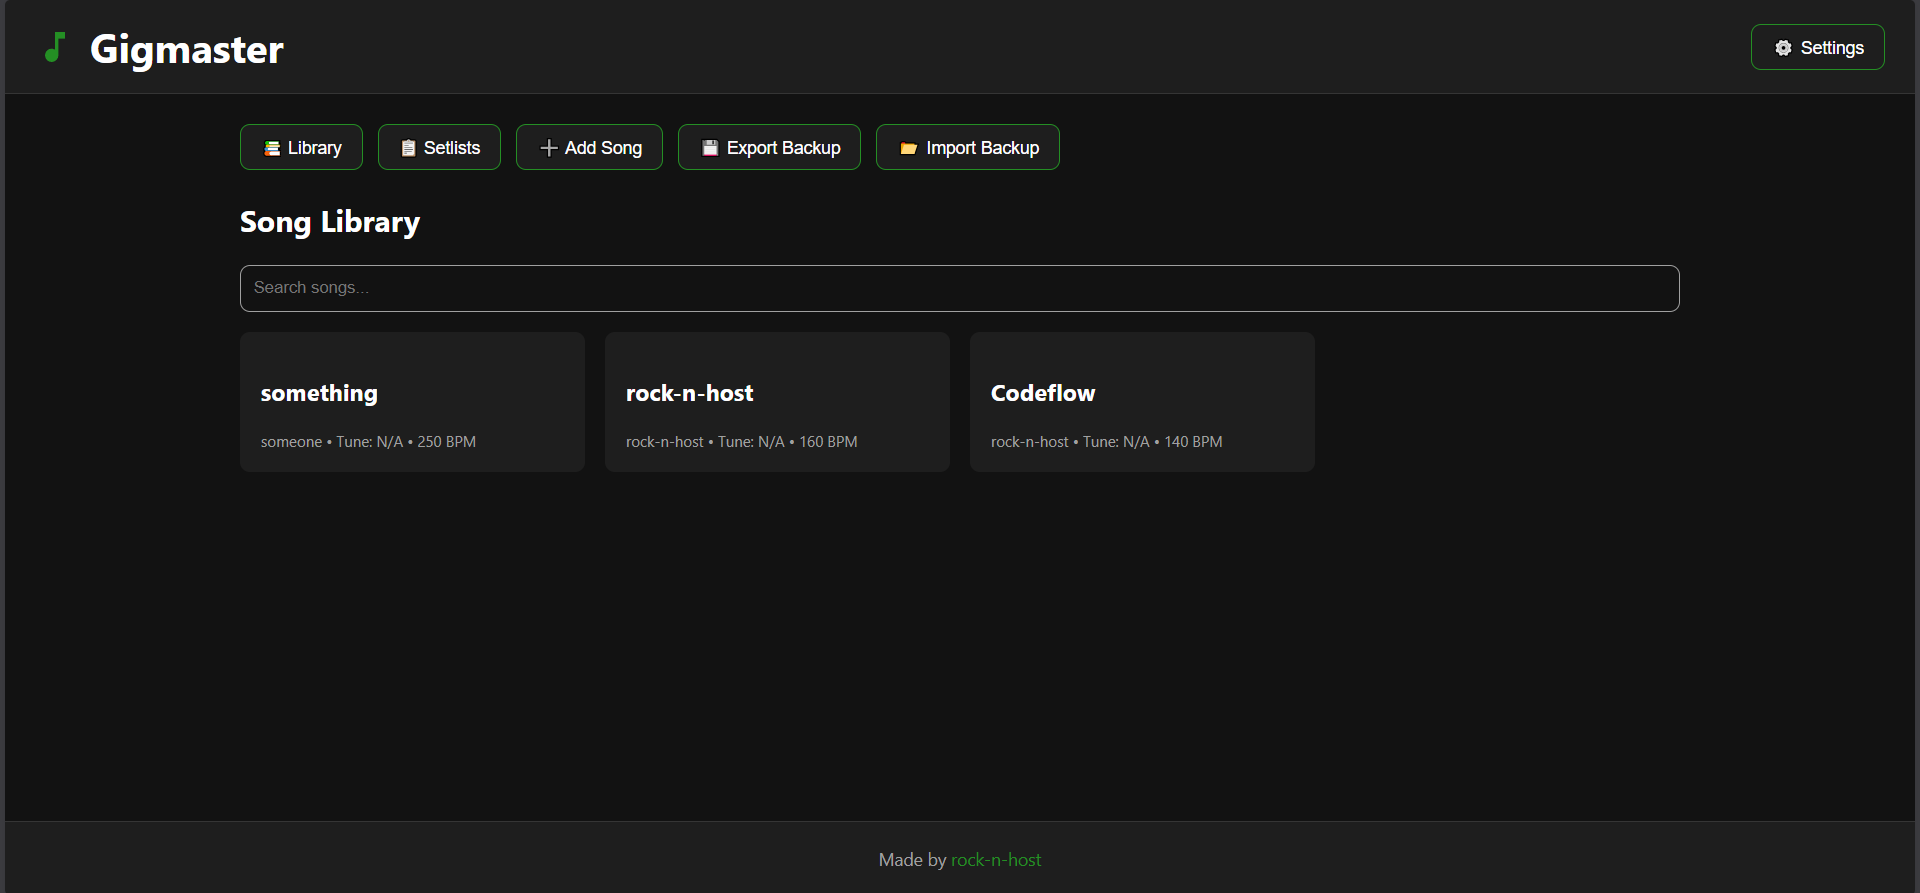
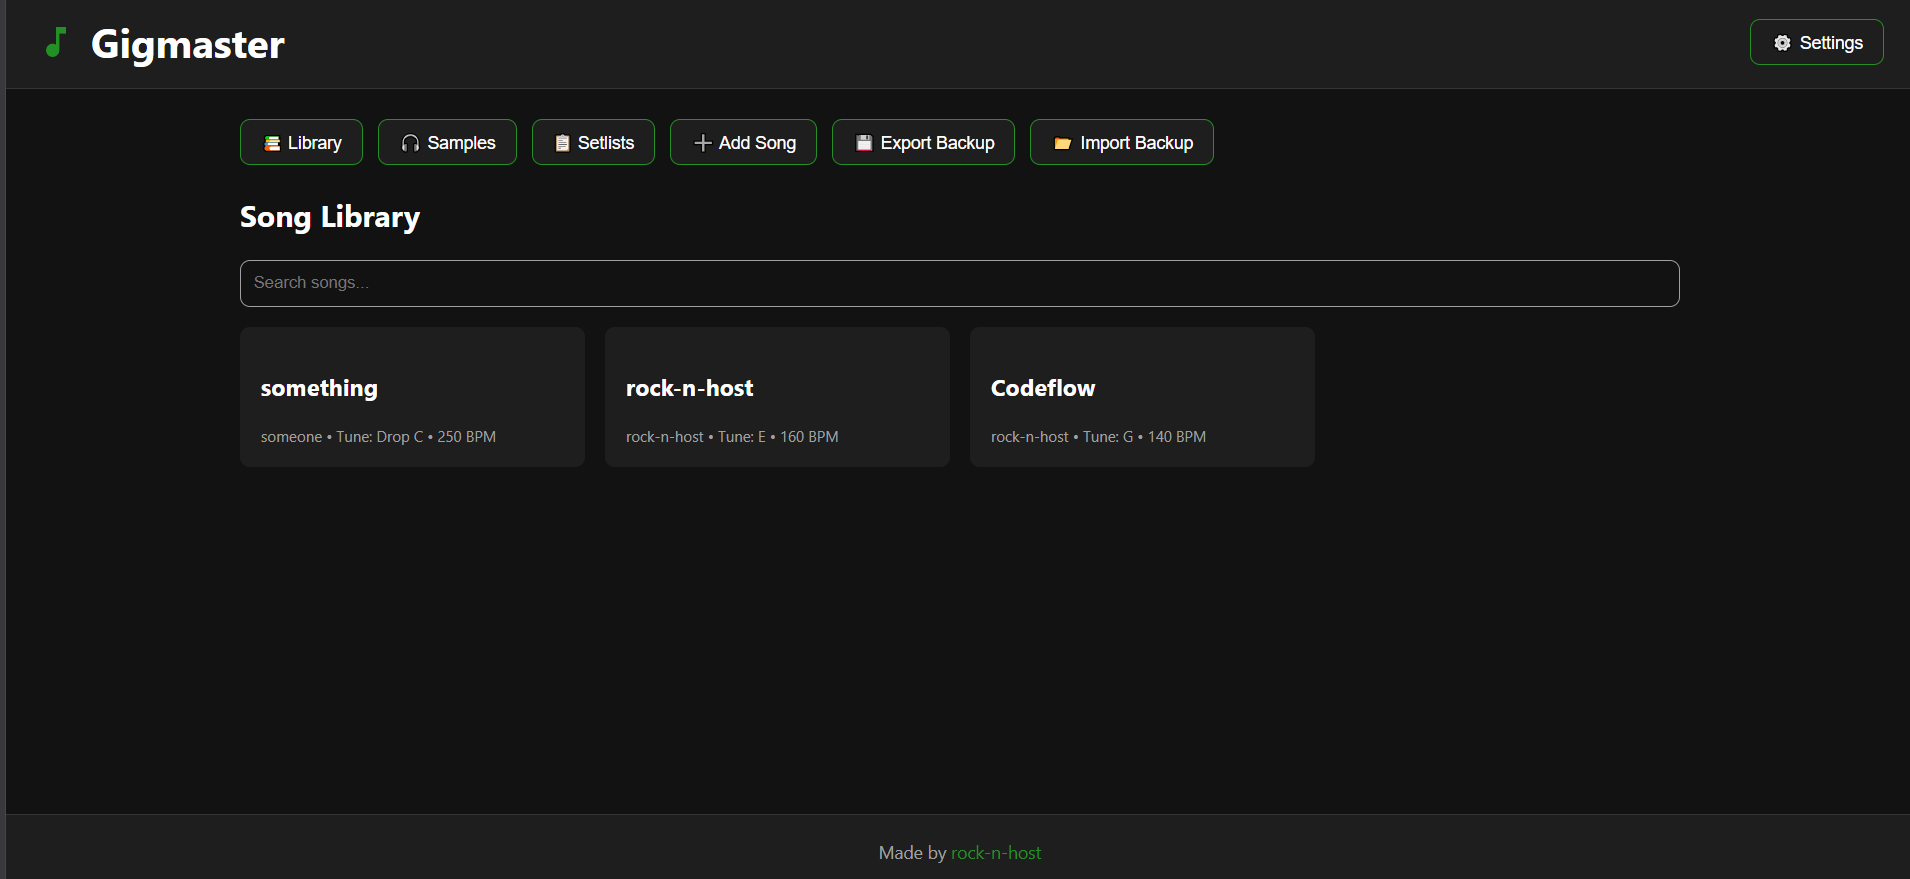
update README

diff --git a/README.md b/README.md
@@ -3,21 +3,21 @@
   <h1>Gigmaster</h1>
   <p><strong>A simple, self-hosted lyrics library without dependenvies.</strong></p>
 
-  ![Version](https://img.shields.io/badge/version-2026.05.02-blue?style=flat-square)
+  ![Version](https://img.shields.io/badge/version-2026.10.06-blue?style=flat-square)
 </div>
 
 ---
 
 ## Overview
 
-**Gigmaster** is a lightweight, responsive web application designed to manage and display lyrics during gigs or rehearsals. It is built to be self-hosted and uses a simple flat-file structure. My goal was to make it as simple as possible so no external frameworks are used, only pure HTML, CSS and javascript.
+**Gigmaster** is a lightweight, responsive web application designed to manage and display lyrics during gigs or rehearsals. It is built to be self-hosted and uses a simple flat-file structure. My goal was to make it simple and runnable on every modern Browser. No external frameworks are used, just pure HTML, CSS and javascript.
 
 ### Features
-* **Light and Dark Mode UI:** Optimized for low-light environments as well as outdoor places with daylight.
 * **Card Grid Layout:** Easy touch navigation for song selection.
 * **Flat-File structure:** Lyrics are stored inside `indexedDB` in the Browser and can be imported / exported as JSON. The application itself is just one html file containing everything.
 * **Settings:** Simple settings window for the theme, audio click and scroll speed
 * **Samples view:** Browse and play only the songs with attached audio samples, with search by song or artist.
+* **Light and Dark Mode UI:** Optimized for low-light environments as well as outdoor places with daylight.
 
 <img src="screenshots/main-page-dark.PNG" alt="main-page-dark" width="600"/>
 <img src="screenshots/main-page-light.PNG" alt="main-page-light" width="600"/>
@@ -53,18 +53,12 @@ There is a default Setlist that can be edited. New ones can be added and also re
 
 ## Audio playback
 
-Loading audio files as backing tracks is also supported. Audio files are stored as base64 "Text" directly in the same JSON. Your browser converts them back to audio in real time.
+Loading audio files as backing tracks is also supported. They are stored as base64 "Text" in the DB and JSON's. Your browser converts them back to audio in real time.
 
 Use the **Samples** tab to quickly audition attached audio without opening the full lyrics view. Starting a sample automatically pauses any other active audio player.
 
 ---
 
-## TODO
-
-- centralized DB and json backups inside Docker Containers
-
----
-
 <div align="center">
-  Built by <a href="https://github.com/rock-n-host">rock-n-host</a> with some help from Gemini.
+  Built by <a href="https://github.com/rock-n-host">rock-n-host</a> with Codex.
 </div>
